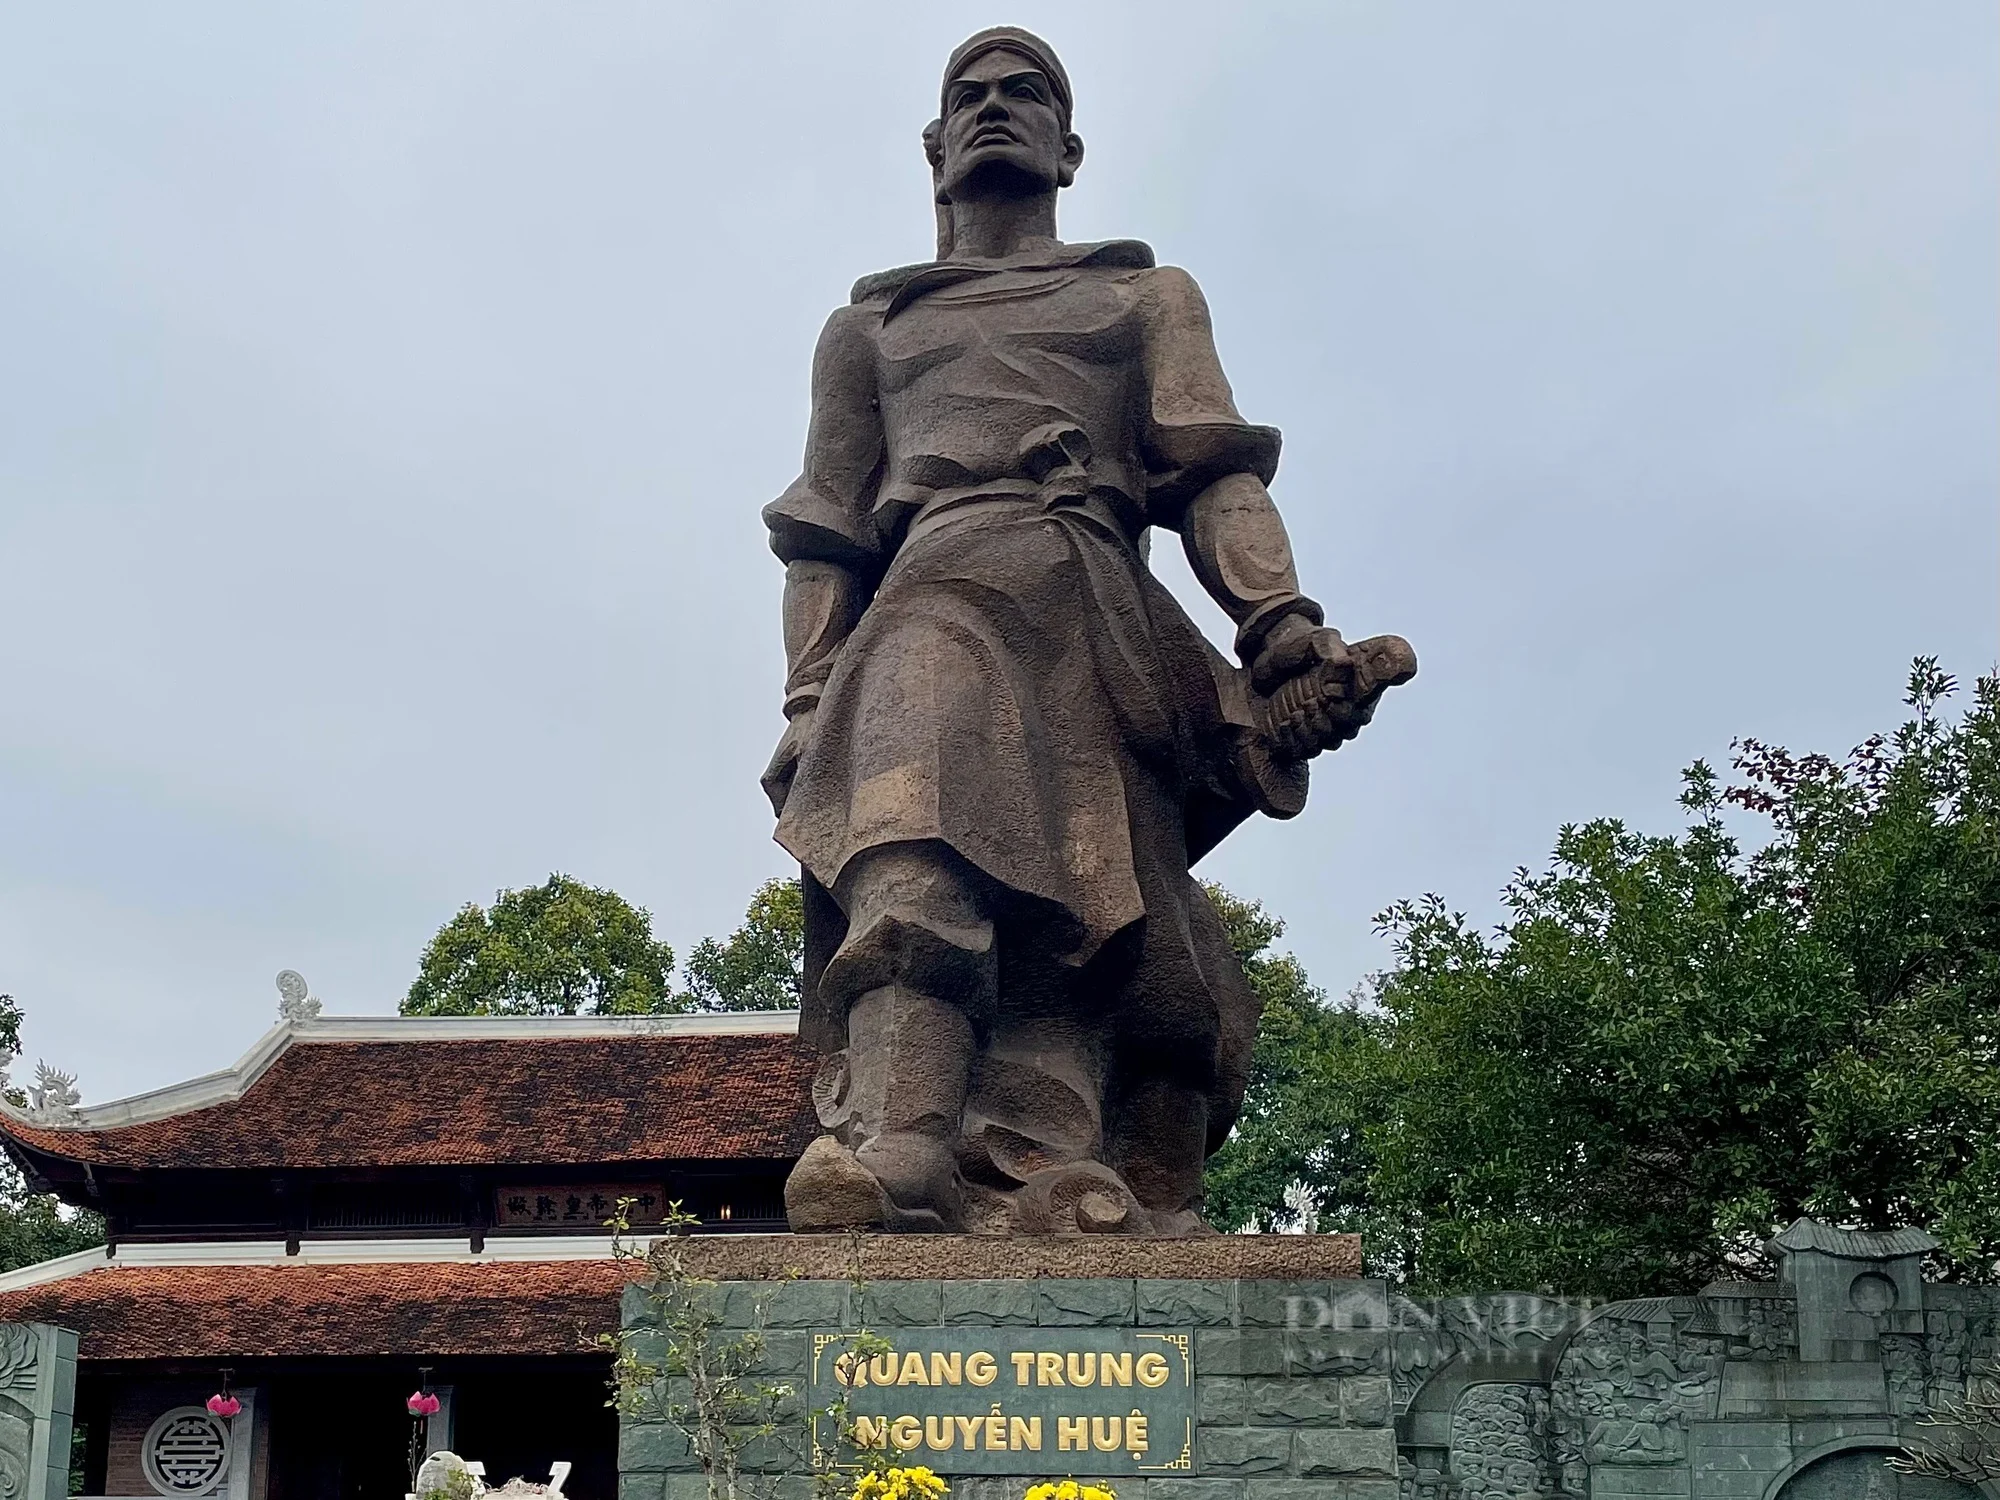
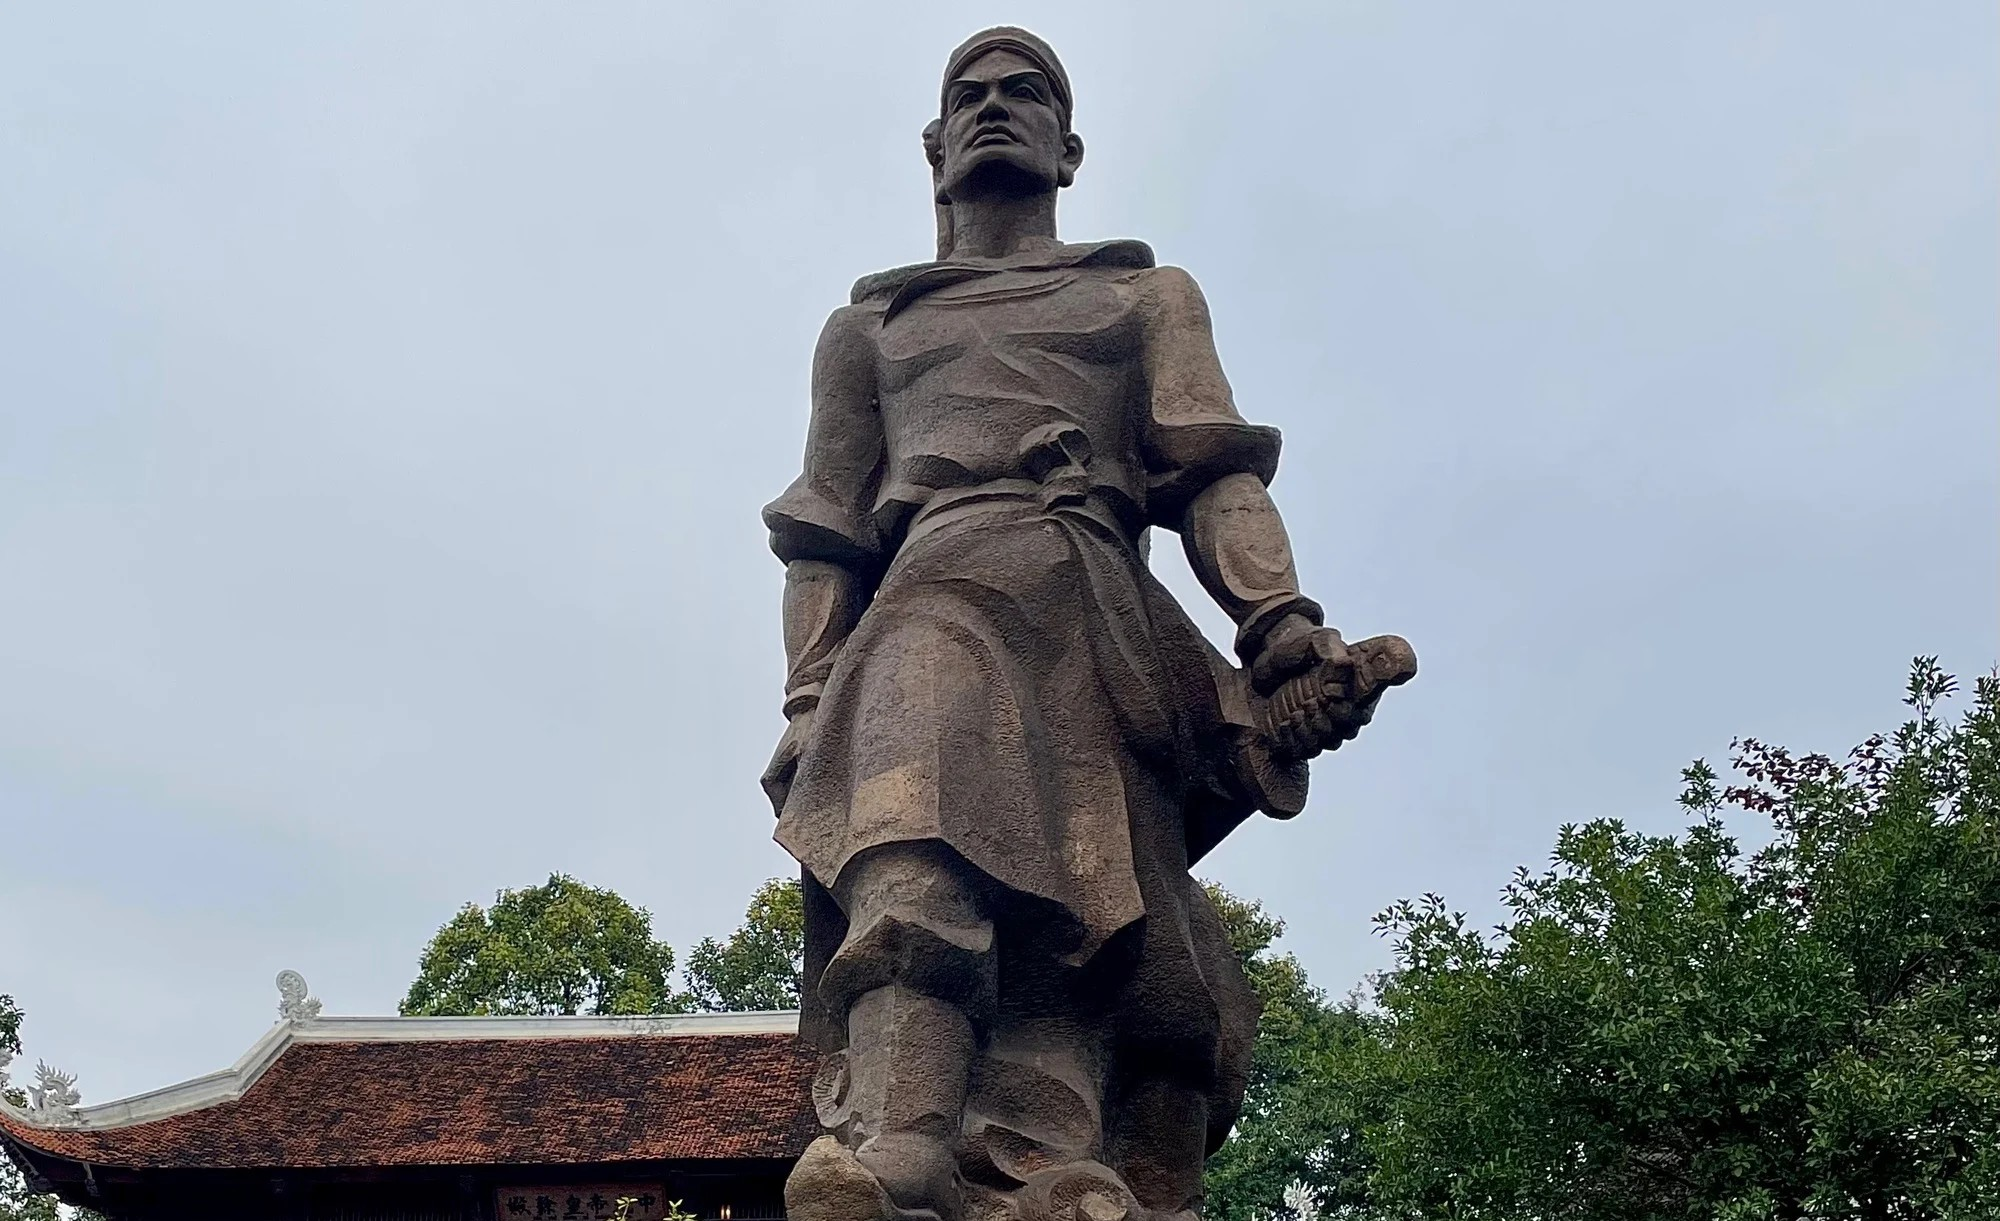
Update pure slide transition effect

diff --git a/style.css b/style.css
@@ -17,36 +17,36 @@ body {
   height: 100vh;
 }
 
-/* ===== HIỆU ỨNG TRƯỢT NGANG SIÊU MƯỢT ===== */
+/* ===== HIỆU ỨNG TRƯỢT NGANG THUẦN TÚY ===== */
 .presentation { position: relative; width: 100vw; height: 100vh; overflow: hidden; }
 
 .slide {
   position: absolute; inset: 0;
   padding: 40px 60px 80px;
   display: flex; align-items: center; justify-content: center;
-  opacity: 0;
-  pointer-events: none; /* Tránh click nhầm vào slide bị ẩn */
+  
+  /* Chỉ dùng transform để trượt, không dùng opacity */
+  transition: transform 0.6s cubic-bezier(0.25, 1, 0.5, 1);
+  pointer-events: none; /* Ngăn click vào slide bị ẩn */
+  
+  /* Mặc định đẩy sang phải */
+  transform: translateX(100%);
   z-index: 1;
-  /* Dùng cubic-bezier để tạo gia tốc mượt mà, không bị đơ */
-  transition: transform 0.6s cubic-bezier(0.25, 1, 0.5, 1), opacity 0.6s ease;
 }
 
 .slide.active {
-  opacity: 1; 
-  pointer-events: auto;
   transform: translateX(0);
+  pointer-events: auto;
   z-index: 2;
 }
 
 .slide.prev-slide {
   transform: translateX(-100%);
-  opacity: 0;
   z-index: 0;
 }
 
 .slide.next-slide {
   transform: translateX(100%);
-  opacity: 0;
   z-index: 0;
 }
 
